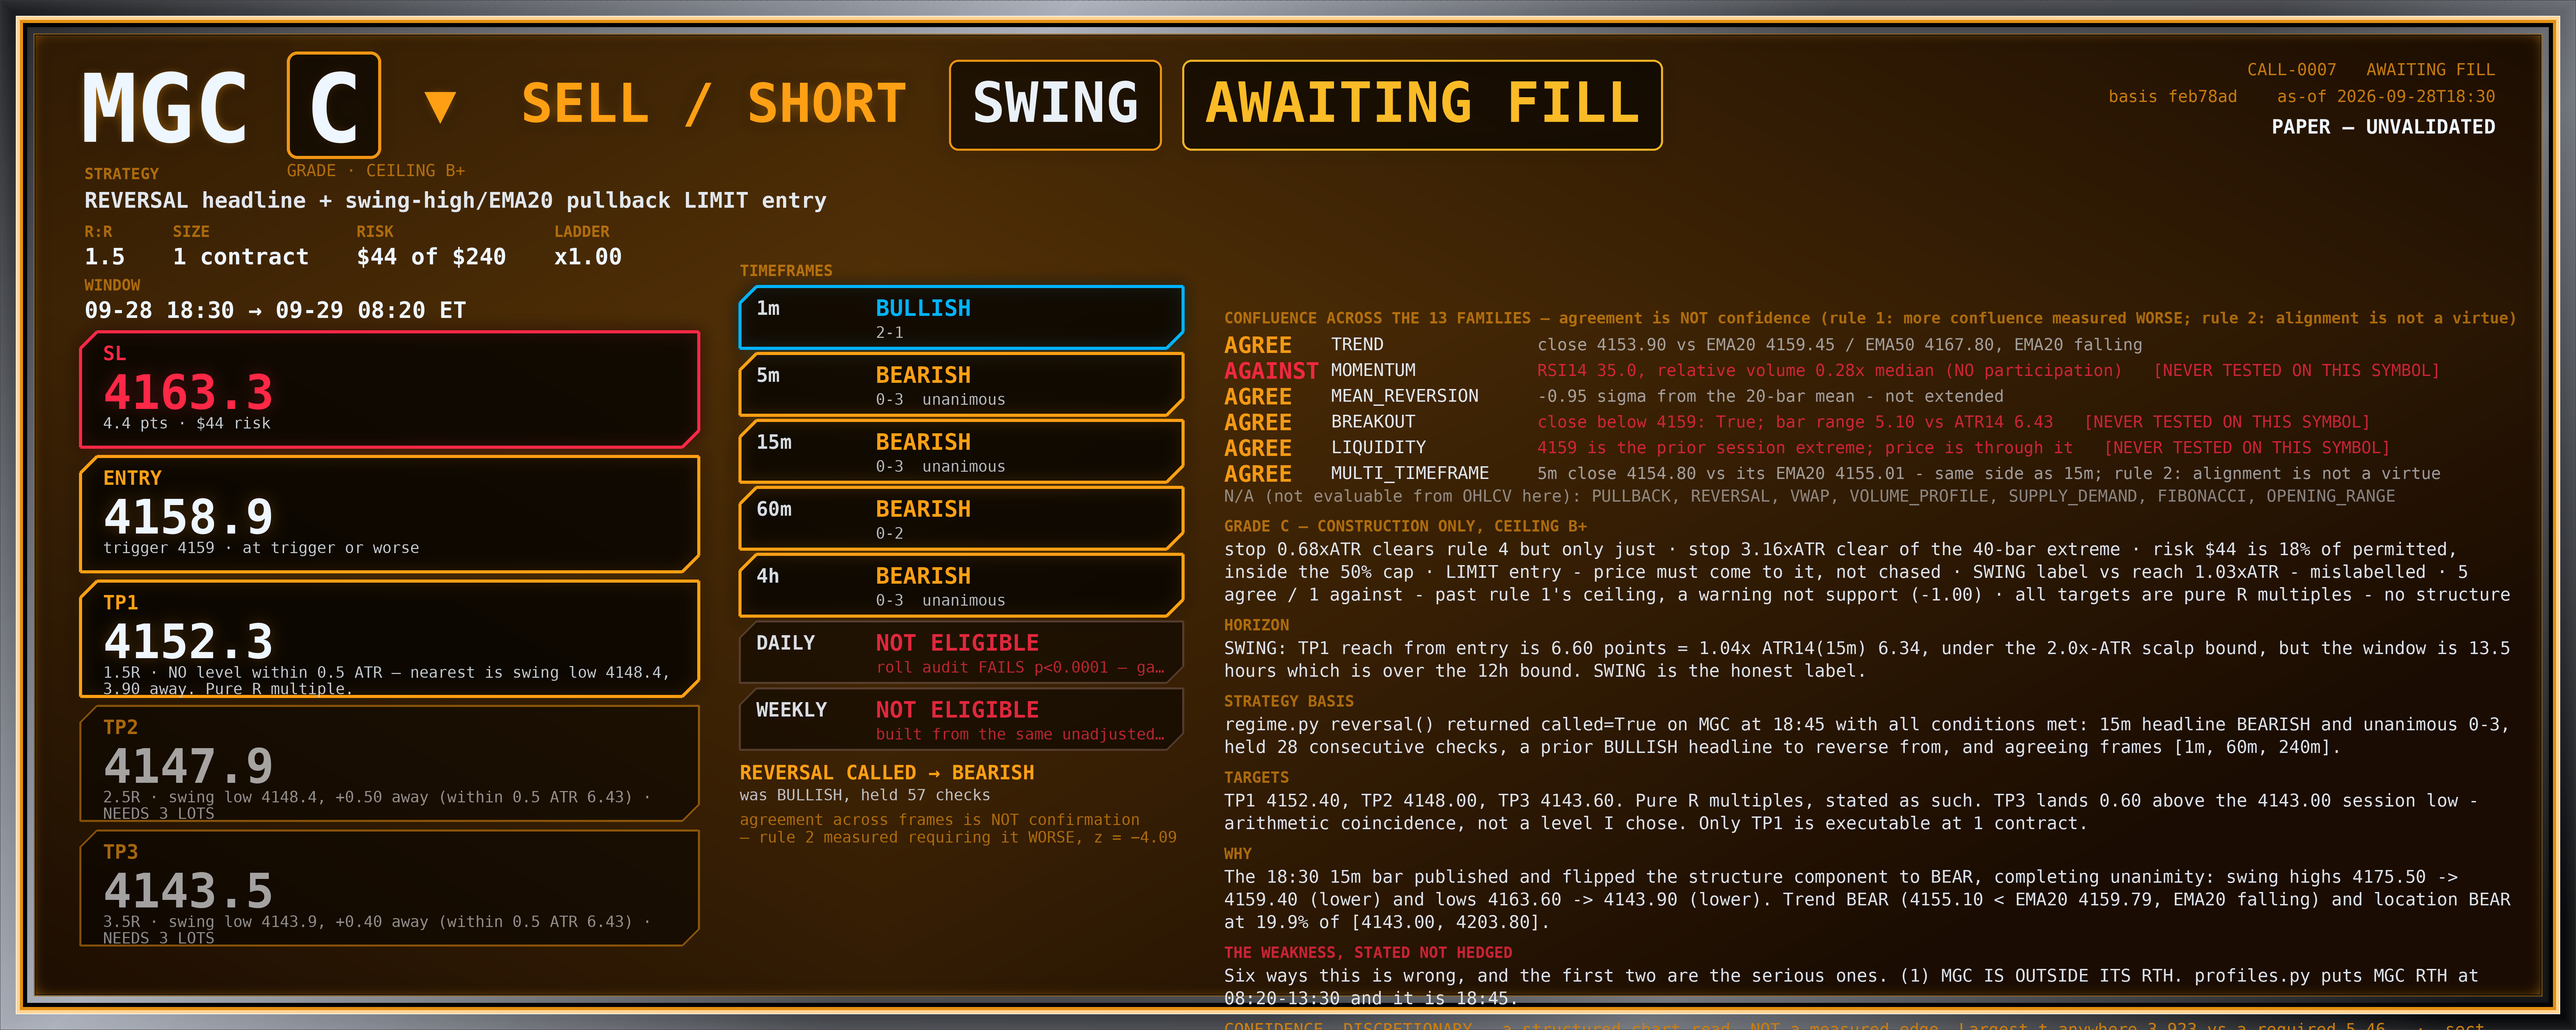
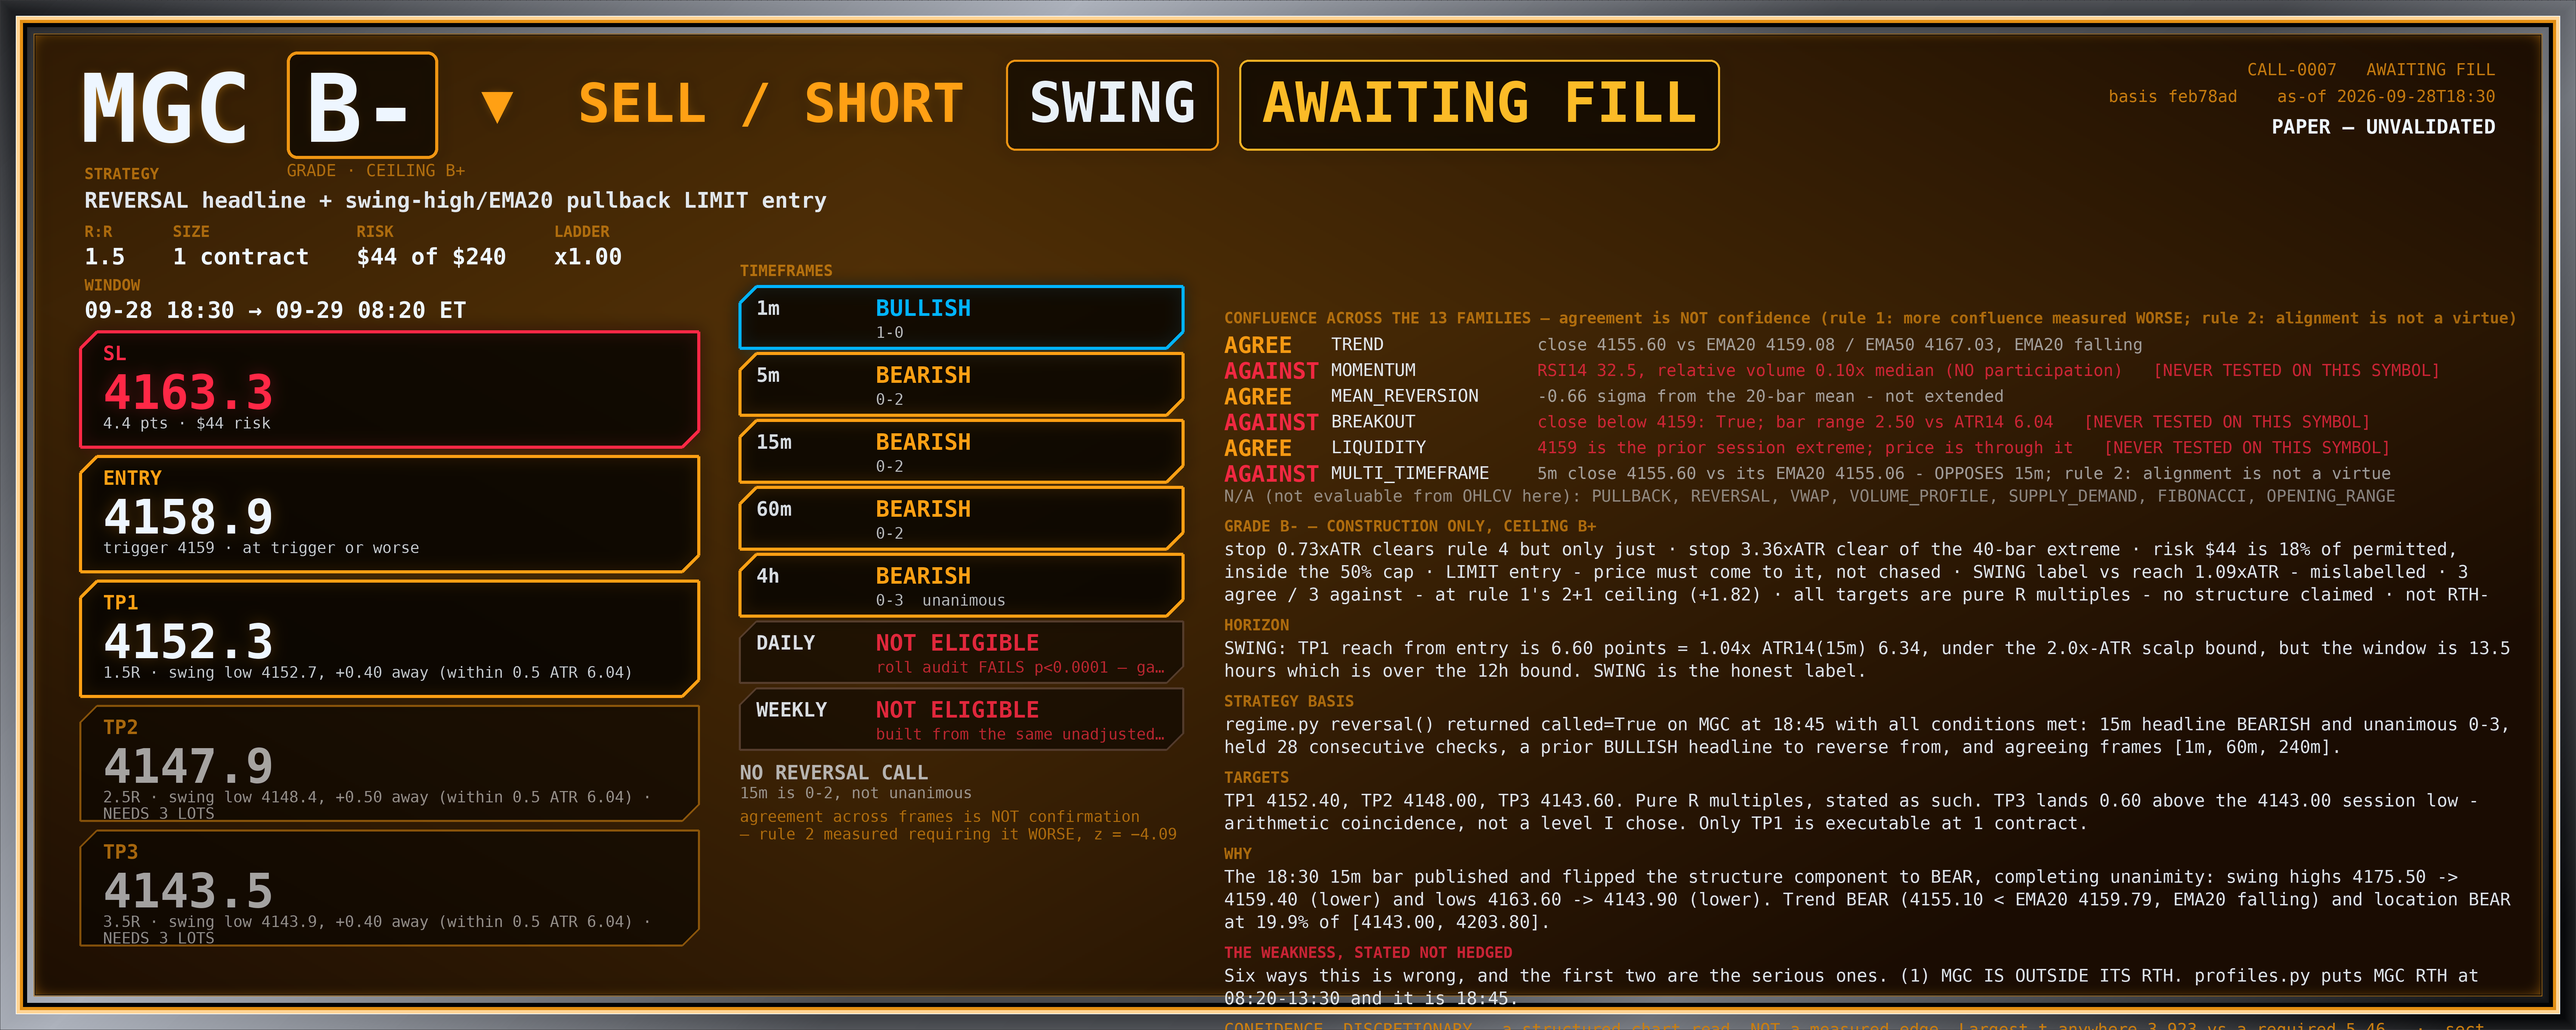
CALL desk: 19:16 - the 19:00 15m bar settles and BOTH reversal calls genuinely lapse (MGC higher low, MNQ lower high); unlike 19:00 and 19:08 this is new=1 not a revision. Both plans left untouched per N8 with $90 behind lapsed gates
Claude-Session: https://claude.ai/code/session_01EE6PFk7fGa2tM4KP6dpfWD

diff --git a/workspace/paper/CALL/DECISIONS.md b/workspace/paper/CALL/DECISIONS.md
@@ -63,6 +63,7 @@ the second is how a veto flatters itself and quoting only the first is how a tra
 | 21 | 19:00 | **The gate that produced CALL-0007 has LAPSED, and I am not touching the plan.** The 18:45 15m bar printed a higher low (4143.90 → 4153.70), flipping MGC structure BEAR → MIXED; 15m is now 0-2 and `regime.py` no longer calls the reversal | the plan stays live on evidence that has weakened, so a fill now is a fill on a condition that no longer holds — that is a real, live cost and it is on the card | N8 is the reason: do not edit a pre-registered plan after watching price. Installing a "gate lapsed" void condition now, mid-flight, having just watched the gate lapse, would be the exact post-hoc rule change the desk exists to prevent | **deferred to the parent, not installed:** should a PENDING plan die when its originating gate lapses? Genuine design question. It must be pre-registered and tested, never bolted on while a plan is live |
 | 22 | 19:02 | **The 19:00 "gate lapsed" was a REVISION, not an event — corrected.** The 18:45 15m bar restated (`new=0 revised=1`), the 4153.70 higher low was revised away, structure is BEAR again and the reversal call is back, held 44 checks with agreeing frames [1m, 5m, 60m, 240m] | I reported a lapse as a real change. It was a restatement of an unclosed bar, exactly what N140 says to distrust, and I described it as the gate dropping | **refusing to act on it was right, and this is the proof.** Had I installed a "gate lapsed" void rule at 19:00 and killed CALL-0007, I would have killed a live plan on a number that no longer exists. N8 protected the plan from my own reaction | sixth 15m flip-and-revert today. The lesson is not "be slower" — it is that a gate change read off an unclosed bar is not a gate change until the bar settles |
 | 23 | 19:04 | **CALL-0008 — LONG MNQ pre-registered.** 15m went unanimous BULL 3-0 (EMA20 turned rising, higher high AND higher low), reversal called with agreeing frames [1m, 5m, DAILY, WEEKLY]. LIMIT BUY 30588.00, stop 30565.00 (23.00 pts = 0.61x ATR), TP1 30622.50, 1 contract, $46 | if both plans fill and both lose: **−$90 (−2R)**. Opposite directions on two markets is NOT a hedge — MGC and MNQ are independent, so these are two bets, not offsetting ones | the gate said yes with both vetoes clear; refusing a satisfied gate because the call is only 3 checks old is the discretionary veto N194 blamed for sitting out the morning trend | **the call is 3 checks old and MNQ has flipped 7 times today**; 60m and 4h both disagree; evening volume is 5.5% of RTH median on the newest bar. Sized against the BOOK ($90 of $120 cap), not against an empty account |
+| 24 | 19:16 | **Both gates have now genuinely lapsed — on a SETTLED bar, unlike the two revision artifacts at 19:00 and 19:08.** The 19:00 15m bar published (`new=1`): MGC structure MIXED on a higher low 4143.90→4152.70, MNQ structure MIXED on a lower high 30615.25→30605.75. Neither reversal is called | both plans stay live on evidence that has now really weakened. CALL-0007 is 3.40 from its limit and CALL-0008 is 7.25 from its, so either could still fill on a condition that no longer holds — **$90 at risk behind two lapsed gates** | N8 again: no editing a pre-registered plan after watching price, and no inventing a void rule mid-flight. The 19:02 episode proved why — I would have killed CALL-0007 on a number that came back | the distinction that matters: `new=1` means this lapse is real, `new=0 revised=1` meant the earlier two were not. Same reading, different evidential weight, and the desk must not treat them alike |
 
 ### What the tally actually says
 
